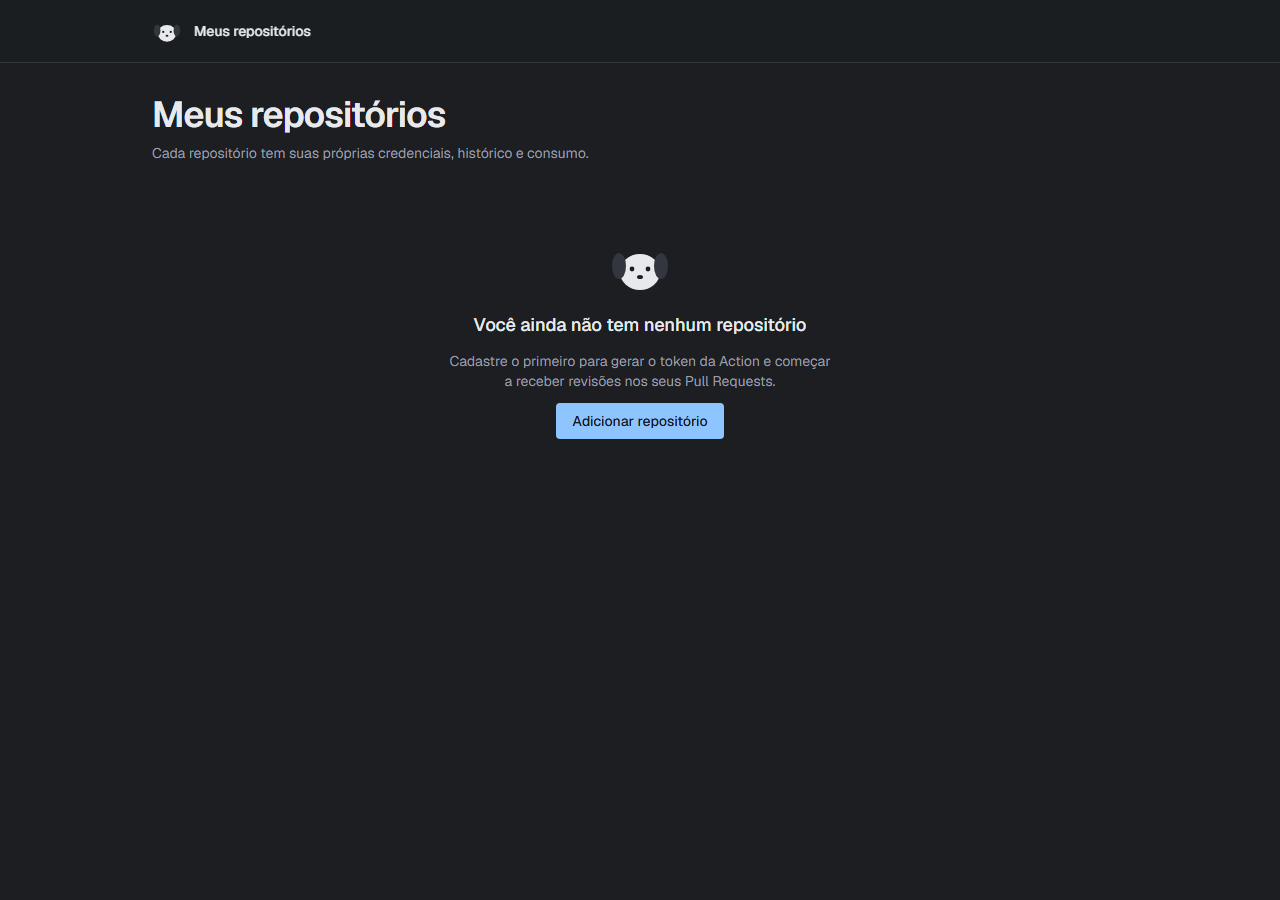
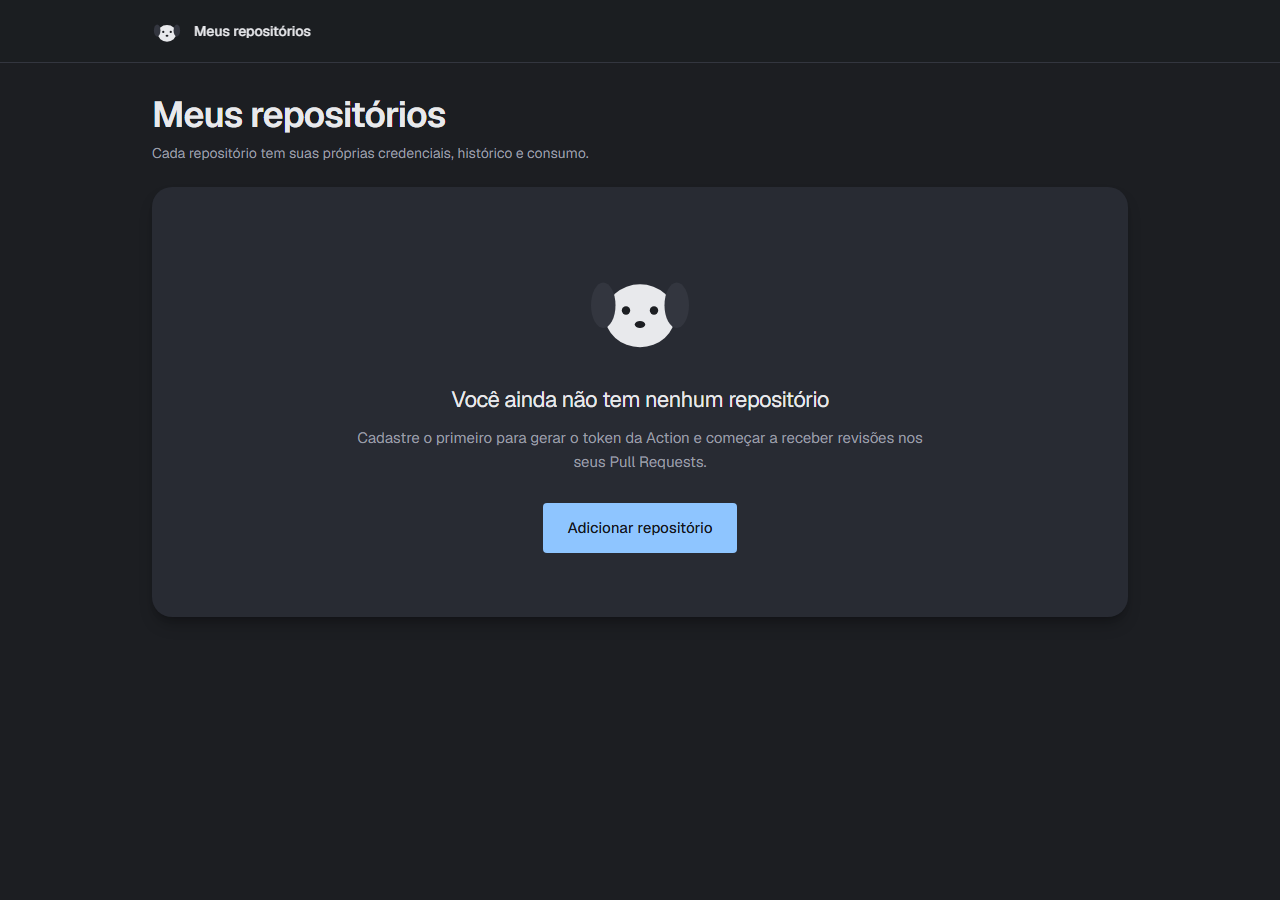
🎨 fix: match Meus Repositórios pixel-for-pixel against the prototype
Caught by direct side-by-side screenshot comparison (PR #6):

- List: implemented the prototype's "Pronto para revisar" badge for
  real instead of skipping it. Added `Repo.readyForReview` (mock-only,
  computed in api-client.ts's toRepo() as llm + scm + (action token OR
  webhook secret)) alongside the existing raw `configComplete` — the
  latter stays as-is for whatever else needs the strict 4-credential
  rule. repoConfigBadgeProps now takes readyForReview, and the
  explanatory callout box (about why this differs from the backend's
  configComplete) is back, shown only when the list isn't empty. This
  is Phase-1-mock-only for now — the real GET /repos response
  (backend-prds/13-...md) doesn't expose per-credential signals yet, so
  Phase 2 will need a backend change to compute this for real.
- Empty state: EmptyState had no container at all (content floated
  directly on the page background) — the prototype wraps it in a
  rounded, shadowed card. Added the missing container, matched the
  larger mascot/heading/body sizing, and bumped the CTA to size="lg".
- Loading: Skeleton used `bg-surface-border` (#33363f, visibly lighter
  than the prototype's card fill) instead of `bg-surface` (#282b33) —
  fixed.

Changed region(s): [[0.2812, 0.28, 0.7188, 0.5289], [0.4062, 0.56, 0.5938, 0.6222]]

diff --git a/src/pages/repos-list/ReposListPage.test.tsx b/src/pages/repos-list/ReposListPage.test.tsx
@@ -48,17 +48,31 @@ describe("ReposListPage", () => {
     expect(screen.getByText("Natan-Lucena/bella-review-web")).toBeInTheDocument();
     expect(screen.getByText("Natan-Lucena/bella-review-action")).toBeInTheDocument();
 
-    // bella-reviewer-api: as 4 credenciais configuradas -> "Pronto".
-    expect(screen.getAllByText("Pronto")).toHaveLength(1);
-    // bella-review-web (sem webhook secret) e bella-review-action (nada
-    // configurado) -> "Configuração pendente" para as outras duas.
-    expect(screen.getAllByText("Configuração pendente")).toHaveLength(2);
+    // bella-reviewer-api e bella-review-web: llm+scm+(token OU webhook) ->
+    // "Pronto para revisar" (bella-review-web tem token da Action mesmo sem
+    // segredo de webhook, e ainda assim conta como pronto).
+    expect(screen.getAllByText("Pronto para revisar")).toHaveLength(2);
+    // bella-review-action (nada configurado) -> "Configuração pendente".
+    expect(screen.getAllByText("Configuração pendente")).toHaveLength(1);
 
-    // bella-review-web tem llm configurado mesmo com configComplete false —
-    // o modelo real aparece, não "ainda não configurado".
+    // bella-review-web tem llm configurado -> o modelo real aparece, não
+    // "ainda não configurado".
     expect(screen.getAllByText("Gemini · gemini-2.5-flash")).toHaveLength(2);
     // bella-review-action nunca configurou llm -> texto de fallback.
     expect(screen.getByText("Ainda não configurado")).toBeInTheDocument();
+  });
+
+  it("shows the explanatory callout about the 'pronto para revisar' badge only when there are repos", async () => {
+    renderPage();
+    expect(await screen.findByText("Natan-Lucena/bella-reviewer-api")).toBeInTheDocument();
+    expect(screen.getByText(/Sobre o selo "pronto para revisar"/)).toBeInTheDocument();
+  });
+
+  it("does not show the callout in the empty state", async () => {
+    vi.spyOn(apiClient, "listRepos").mockResolvedValueOnce({ repos: [] });
+    renderPage();
+    expect(await screen.findByText("Você ainda não tem nenhum repositório")).toBeInTheDocument();
+    expect(screen.queryByText(/Sobre o selo/)).not.toBeInTheDocument();
   });
 
   it("navigates to /repos/:id when a repo card is clicked", async () => {

diff --git a/src/components/EmptyState.tsx b/src/components/EmptyState.tsx
@@ -8,17 +8,25 @@ type EmptyStateProps = {
 };
 
 // Ver 00-component-library.md, "EmptyState" — o mascote na ilustração é requisito,
-// não sugestão (ver frontend-especificacao-telas.md, "Identidade visual").
+// não sugestão (ver frontend-especificacao-telas.md, "Identidade visual"). O
+// container próprio (não só conteúdo centralizado solto) espelha
+// EmptyState.dc.html do protótipo componentizado.
 export function EmptyState({ title, description, action }: EmptyStateProps) {
   return (
-    <div className="flex flex-col items-center gap-3 py-12 text-center">
-      <Logo size={64} />
-      <h2 className="text-lg font-medium text-ink">{title}</h2>
-      <p className="max-w-sm text-sm text-ink-muted">{description}</p>
+    <div className="rounded-[20px] bg-surface px-10 py-16 text-center shadow-lg shadow-black/25">
+      <div className="flex justify-center">
+        <Logo size={112} />
+      </div>
+      <h2 className="mt-5 text-[22px] font-normal tracking-tight text-ink">{title}</h2>
+      <p className="mx-auto mt-2.5 max-w-[38em] text-[15px] leading-relaxed text-ink-muted">
+        {description}
+      </p>
       {action && (
-        <Button variant="primary" onClick={action.onClick}>
-          {action.label}
-        </Button>
+        <div className="mt-7 flex justify-center">
+          <Button variant="primary" size="lg" onClick={action.onClick}>
+            {action.label}
+          </Button>
+        </div>
       )}
     </div>
   );

diff --git a/src/lib/status-badges.ts b/src/lib/status-badges.ts
@@ -8,15 +8,13 @@ type BadgeProps = { tone: BadgeTone; label: string };
 // {label, color, bg}` do StatusBadge.dc.html do protótipo componentizado).
 // Cresce um função por PRD conforme cada tela (05, 08, 09, 10) é implementada.
 
-// PRD 05 (Meus Repositórios): reflete o `configComplete` cru vindo da API —
-// não o estado "pronto para revisar" mais nuançado que o protótipo sugere
-// (llm + scm + (token da Action OU segredo de webhook)), porque `GET /repos`
-// só devolve o booleano já agregado, sem os sinais por credencial que
-// permitiriam computar isso no frontend (ver backend-prds/13-...md). Ver nota
-// da Tela 4 em frontend-especificacao-telas.md: mesmo sendo o campo cru, o
-// texto nunca deve soar como "incompleto".
-export function repoConfigBadgeProps(configComplete: boolean): BadgeProps {
-  return configComplete
-    ? { tone: "success", label: "Pronto" }
+// PRD 05 (Meus Repositórios): usa `Repo.readyForReview` (calculado no mock —
+// llm + scm + (token da Action OU segredo de webhook)), não o `configComplete`
+// cru (que exige as 4 credenciais e nunca fica `true` pra quem só usa a
+// Action). Ver frontend-especificacao-telas.md, Tela 4, nota sobre
+// `configComplete`: o texto nunca deve soar como "incompleto".
+export function repoConfigBadgeProps(readyForReview: boolean): BadgeProps {
+  return readyForReview
+    ? { tone: "success", label: "Pronto para revisar" }
     : { tone: "warning", label: "Configuração pendente" };
 }

diff --git a/src/pages/repos-list/ReposListPage.tsx b/src/pages/repos-list/ReposListPage.tsx
@@ -55,7 +55,7 @@ export function ReposListPage() {
       {!isPending && repos.length > 0 && (
         <div className="flex flex-col gap-3">
           {repos.map((repo) => {
-            const badge = repoConfigBadgeProps(repo.configComplete);
+            const badge = repoConfigBadgeProps(repo.readyForReview);
             return (
               <Card
                 key={repo.id}
@@ -80,6 +80,16 @@ export function ReposListPage() {
               </Card>
             );
           })}
+        </div>
+      )}
+
+      {!isPending && repos.length > 0 && (
+        <div className="rounded bg-severity-medium/[0.07] px-[18px] py-4 text-[13.5px] leading-[1.65] text-ink-muted">
+          <span className="text-severity-medium">Sobre o selo "pronto para revisar":</span> ele é
+          calculado aqui no painel a partir de chave do Gemini + PAT do GitHub + (token da Action{" "}
+          <span className="italic">ou</span> segredo de webhook). O campo{" "}
+          <span className="font-mono">configComplete</span> do backend exige os quatro ao mesmo
+          tempo, o que marcaria como incompleto quem seguiu o caminho recomendado.
         </div>
       )}
     </div>

diff --git a/src/mocks/api-client.test.ts b/src/mocks/api-client.test.ts
@@ -63,12 +63,19 @@ describe("listRepos", () => {
     const bellaWeb = repos.find((repo) => repo.id === "repo-bella-web");
     const bellaAction = repos.find((repo) => repo.id === "repo-bella-action");
 
-    expect(bellaApi).toMatchObject({ configComplete: true, active: true });
+    expect(bellaApi).toMatchObject({ configComplete: true, readyForReview: true, active: true });
     // Action + LLM + SCM configurados, mas sem webhook secret => configComplete
-    // permanece false para sempre (ver frontend-especificacao-telas.md, item 1).
-    expect(bellaWeb).toMatchObject({ configComplete: false, active: true, llmProvider: "Gemini" });
+    // permanece false para sempre (ver frontend-especificacao-telas.md, item 1),
+    // mas readyForReview já é true (token da Action cobre o caminho recomendado).
+    expect(bellaWeb).toMatchObject({
+      configComplete: false,
+      readyForReview: true,
+      active: true,
+      llmProvider: "Gemini",
+    });
     expect(bellaAction).toMatchObject({
       configComplete: false,
+      readyForReview: false,
       active: false,
       llmProvider: "",
       model: "",

diff --git a/src/mocks/api-client.ts b/src/mocks/api-client.ts
@@ -73,11 +73,21 @@ function toRepo(record: RepoRecord): Repo {
     record.actionTokenGenerated &&
     record.webhookSecretGenerated;
 
+  // Mais permissivo que `configComplete`: um repositório configurado só com a
+  // Action (sem webhook) é plenamente funcional, não "incompleto" — ver
+  // frontend-especificacao-telas.md, Tela 4, nota sobre `configComplete`, e
+  // Repo.readyForReview.
+  const readyForReview =
+    record.llmCredential !== null &&
+    record.scmCredential !== null &&
+    (record.actionTokenGenerated || record.webhookSecretGenerated);
+
   return {
     id: record.id,
     fullName: record.fullName,
     active: record.active,
     configComplete,
+    readyForReview,
     llmProvider: record.llmCredential?.provider ?? "",
     model: record.llmCredential ? record.config.model : "",
   };

diff --git a/src/lib/status-badges.test.ts b/src/lib/status-badges.test.ts
@@ -3,8 +3,8 @@ import { describe, expect, it } from "vitest";
 import { repoConfigBadgeProps } from "./status-badges";
 
 describe("repoConfigBadgeProps", () => {
-  it("maps true to a success tone labeled 'Pronto'", () => {
-    expect(repoConfigBadgeProps(true)).toEqual({ tone: "success", label: "Pronto" });
+  it("maps true to a success tone labeled 'Pronto para revisar'", () => {
+    expect(repoConfigBadgeProps(true)).toEqual({ tone: "success", label: "Pronto para revisar" });
   });
 
   it("maps false to a warning tone labeled 'Configuração pendente' (never 'incompleto')", () => {

diff --git a/src/types/repo.ts b/src/types/repo.ts
@@ -5,6 +5,12 @@ export type Repo = {
   fullName: string;
   active: boolean;
   configComplete: boolean;
+  // Estado calculado só no frontend (mock, por enquanto) — llm + scm + (token
+  // da Action OU segredo de webhook). Mais permissivo que `configComplete`
+  // (que exige as 4 credenciais), porque um repositório configurado só com a
+  // Action é um caso plenamente funcional, não "incompleto" — ver
+  // frontend-especificacao-telas.md, Tela 4, nota sobre `configComplete`.
+  readyForReview: boolean;
   llmProvider: string;
   model: string;
 };

diff --git a/src/components/Skeleton.tsx b/src/components/Skeleton.tsx
@@ -16,7 +16,7 @@ export function Skeleton({ shape, width = "100%", height }: SkeletonProps) {
     <div
       role="presentation"
       aria-hidden="true"
-      className={cn("animate-pulse rounded bg-surface-border", shape === "line" && "rounded-full")}
+      className={cn("animate-pulse rounded bg-surface", shape === "line" && "rounded-full")}
       style={{ width, height: height ?? defaultHeight }}
     />
   );
